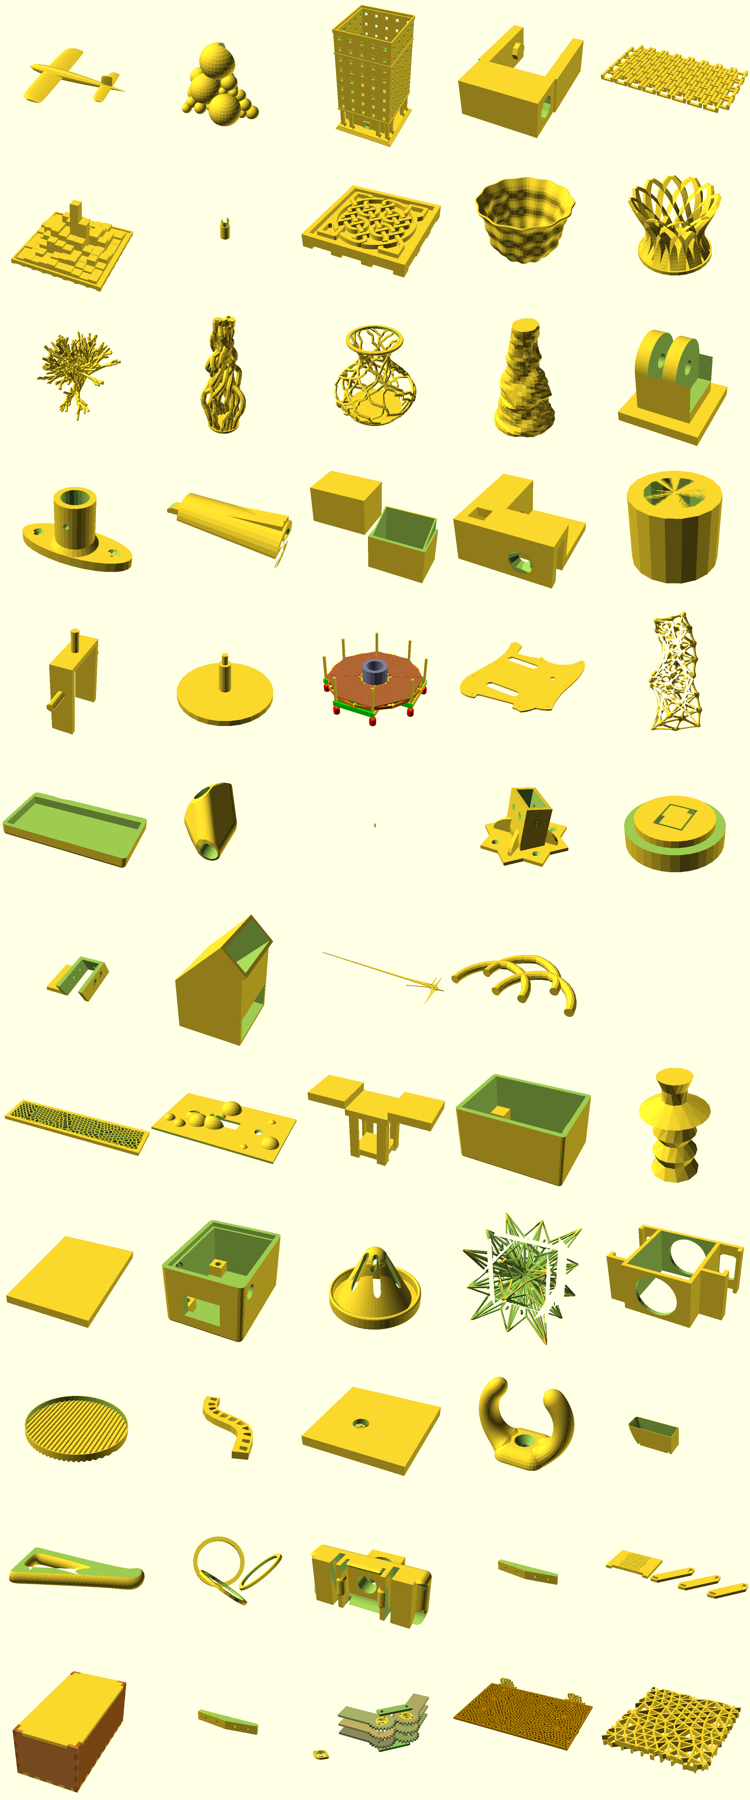
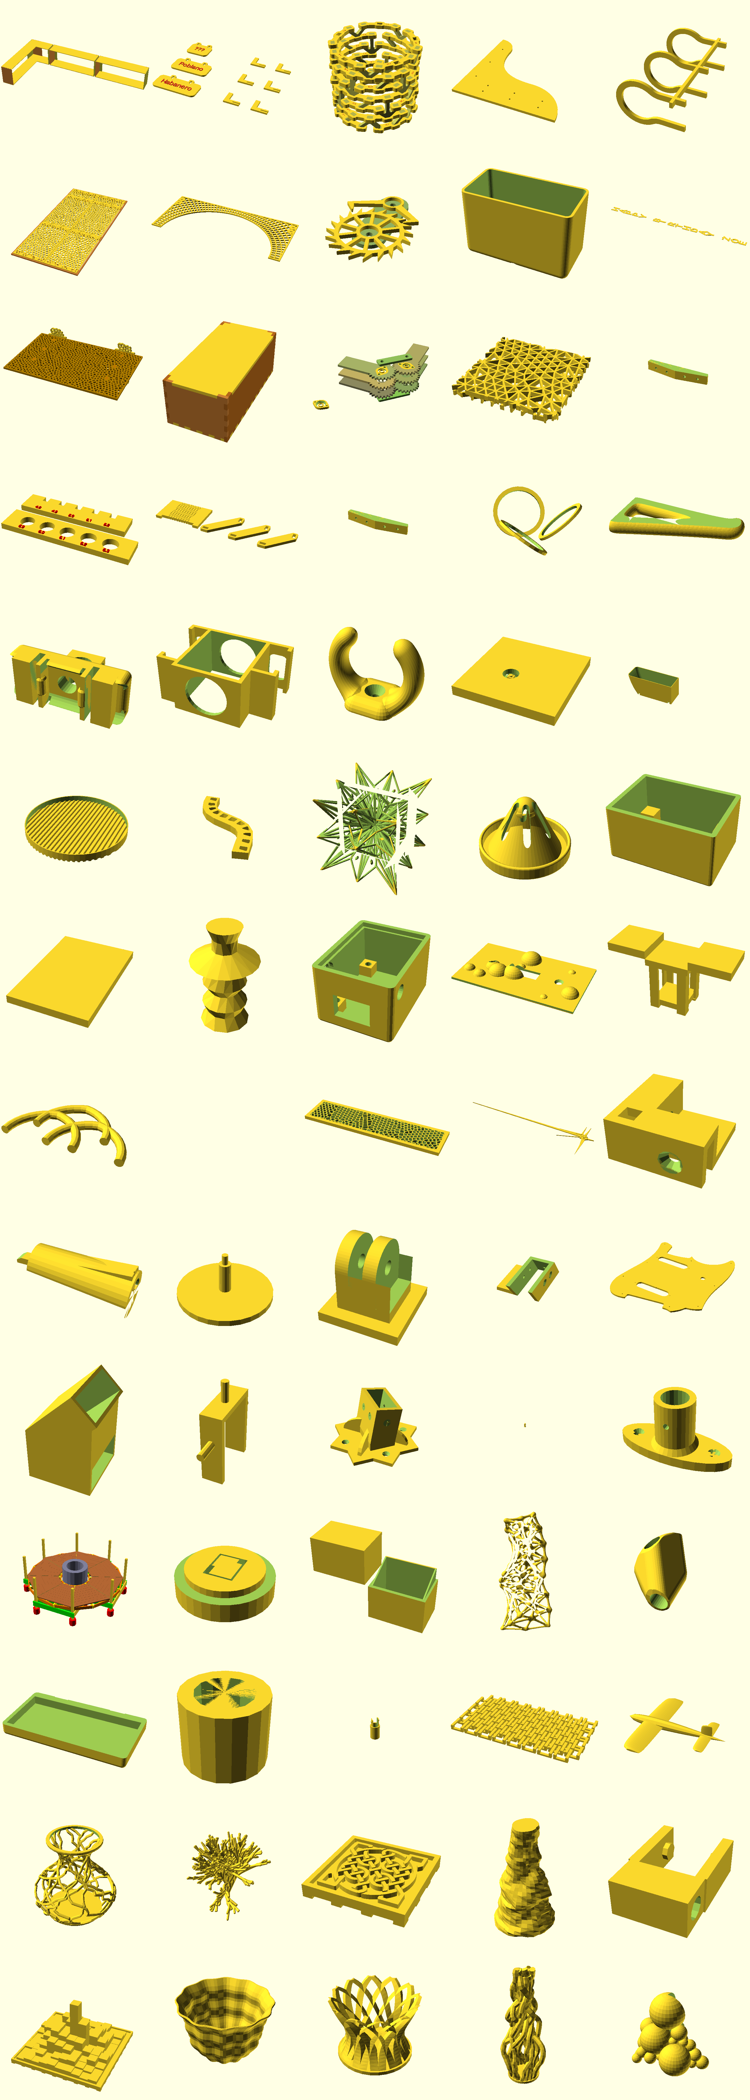
sorted thumbnail by year

diff --git a/src/cad/utils/screenshotter/screenshotter.py b/src/cad/utils/screenshotter/screenshotter.py
@@ -1,3 +1,4 @@
+import platform
 import subprocess
 from pathlib import Path
 
@@ -21,7 +22,10 @@ def get_scad_files(path):
 
 
 def capture_screenshot(scad_file, image_path):
-    pgm = "C:\Program Files\OpenSCAD\openscad.exe"
+    if platform.system() == "Windows":
+        pgm = "C:\Program Files\OpenSCAD\openscad.exe"
+    elif platform.system() == "Darwin":
+        pgm = "/Applications/OpenSCAD.app/Contents/MacOS/OpenSCAD"
     subprocess.call([pgm, "-o", image_path, scad_file])
 
 
@@ -51,6 +55,16 @@ def main():
 
     # Generate grid of screenshots
     images = list((BASE_DIR / "utils" / "screenshotter" / "images").rglob("*.png"))
+
+    # Sort images by reverse year
+    # Images start with either "YYYY" or "yYYYY" (literally the letter y)
+    def get_year_from_filename(image_filename):
+        if image_filename[0] == "y":
+            return int(image_filename[1:5])
+        return int(image_filename[:4])
+
+    images.sort(key=lambda x: get_year_from_filename(x.name), reverse=True)
+
     image_size = 150
     grid_width = 5
     grid_height = len(images) // grid_width
